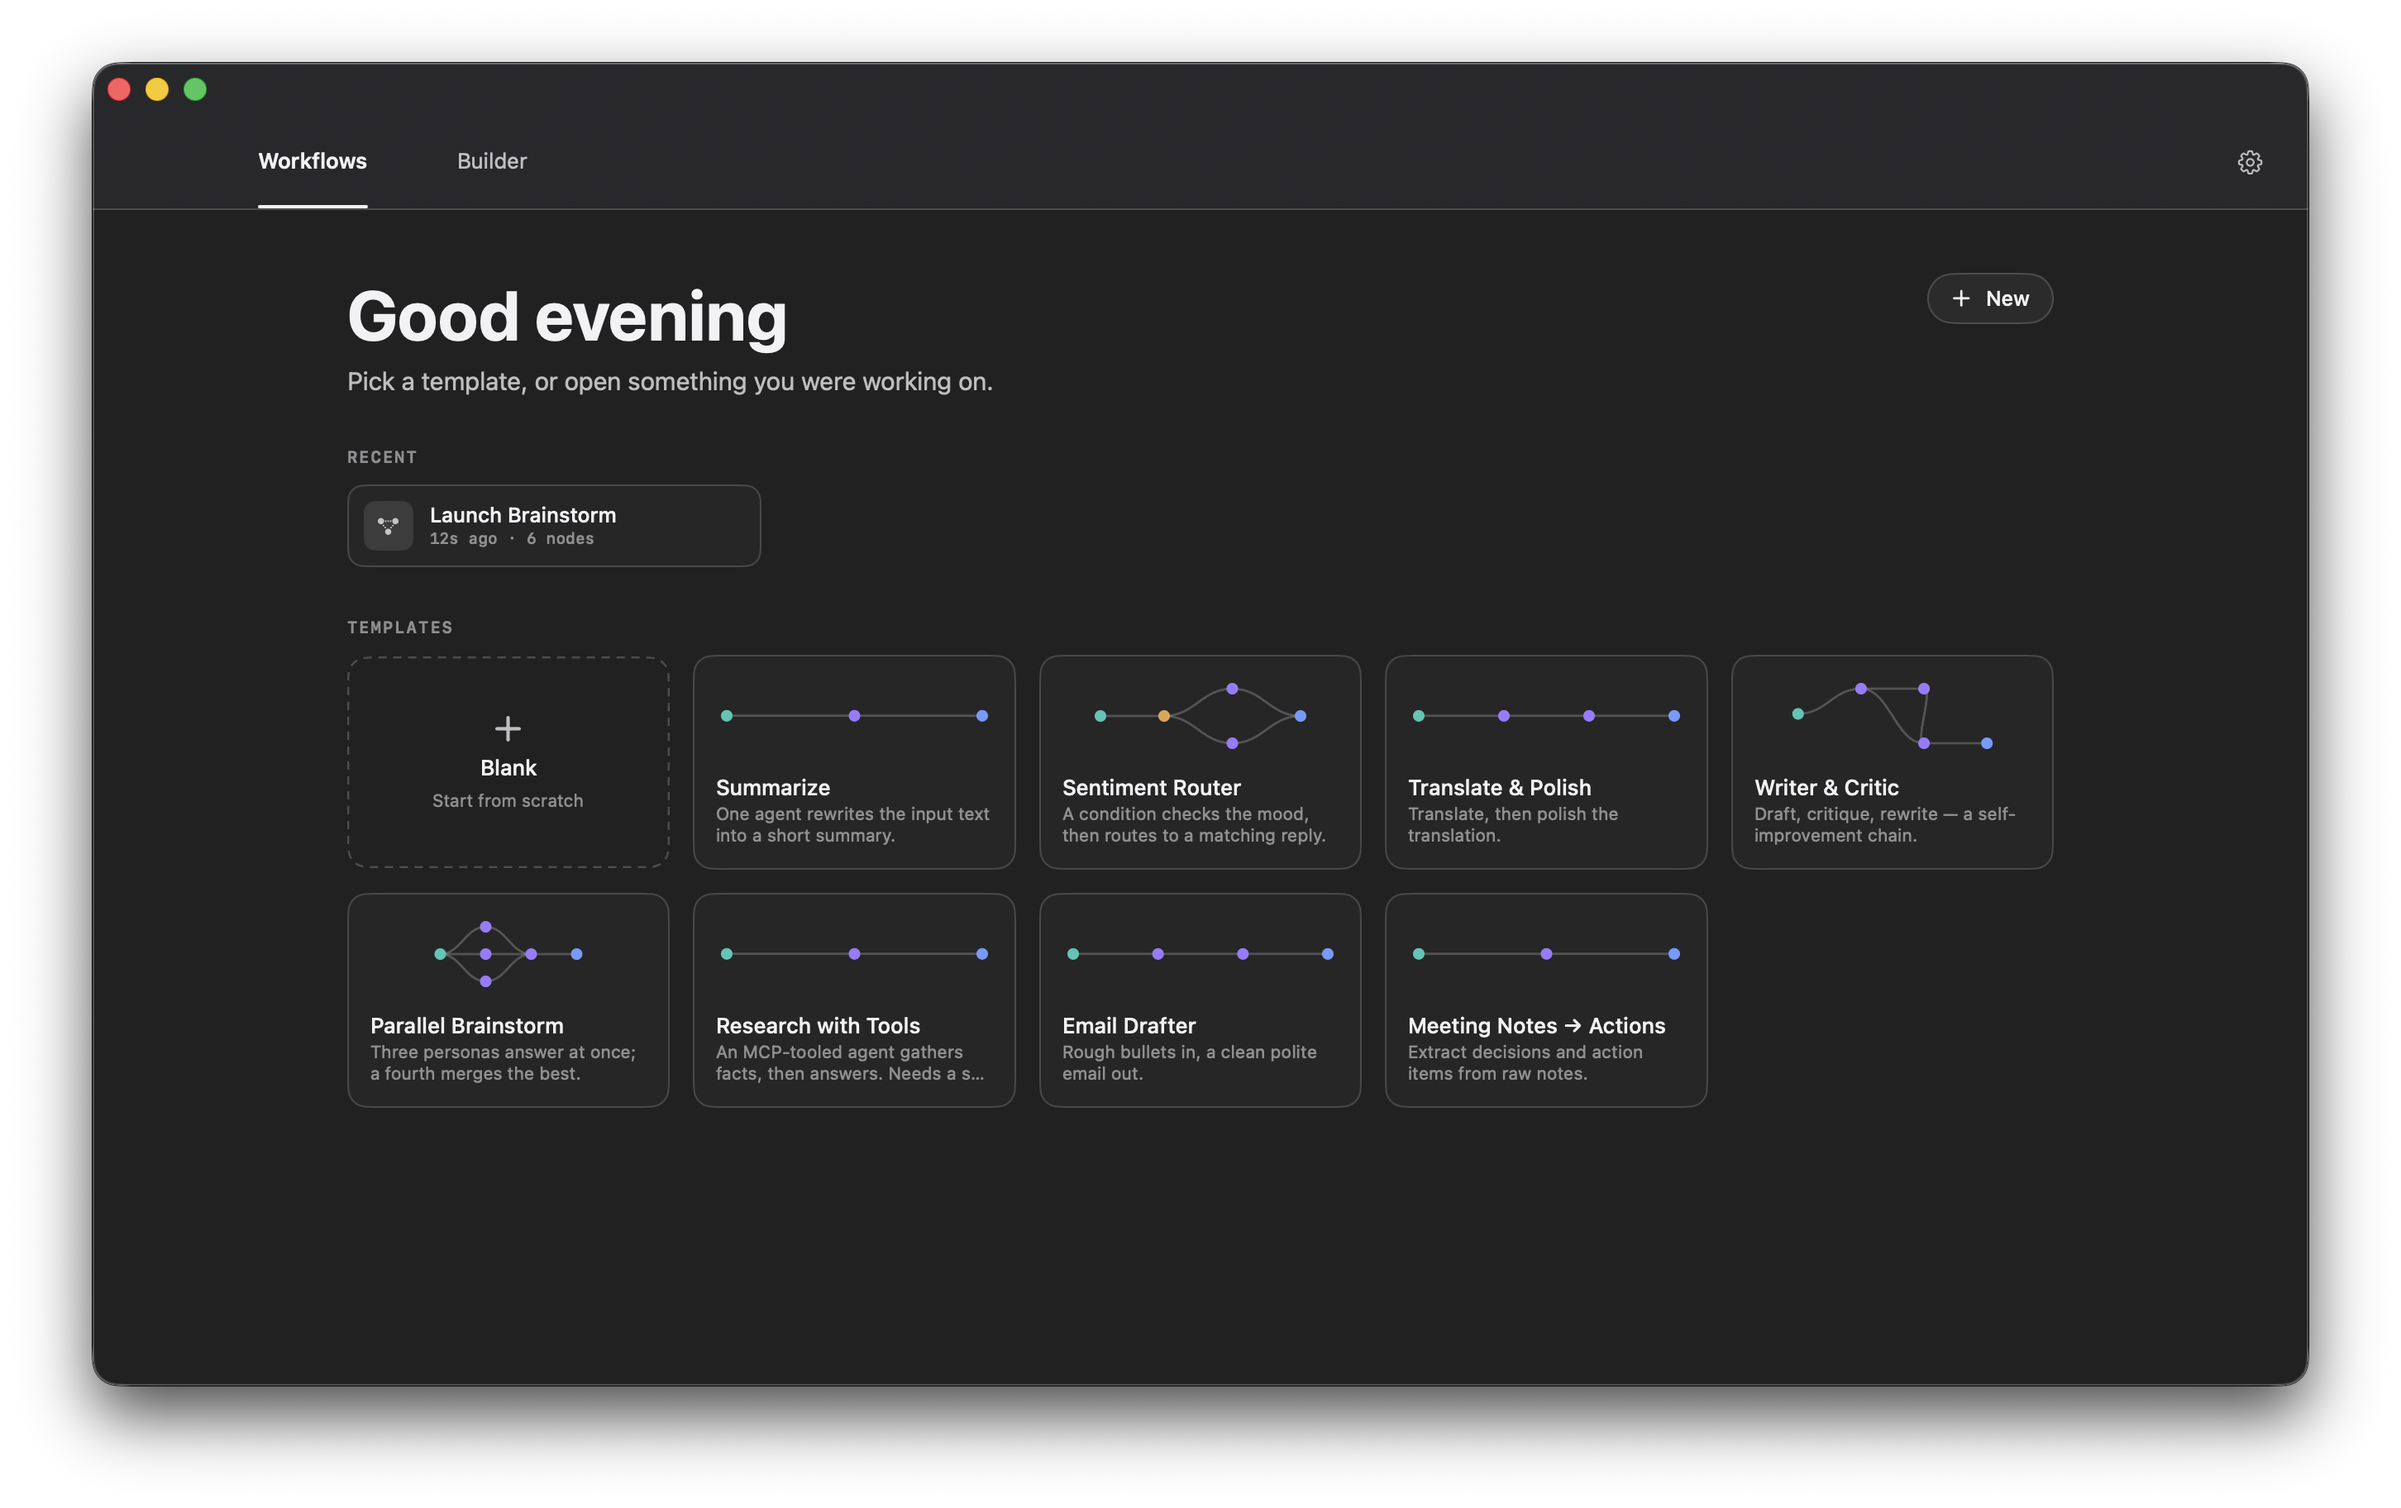
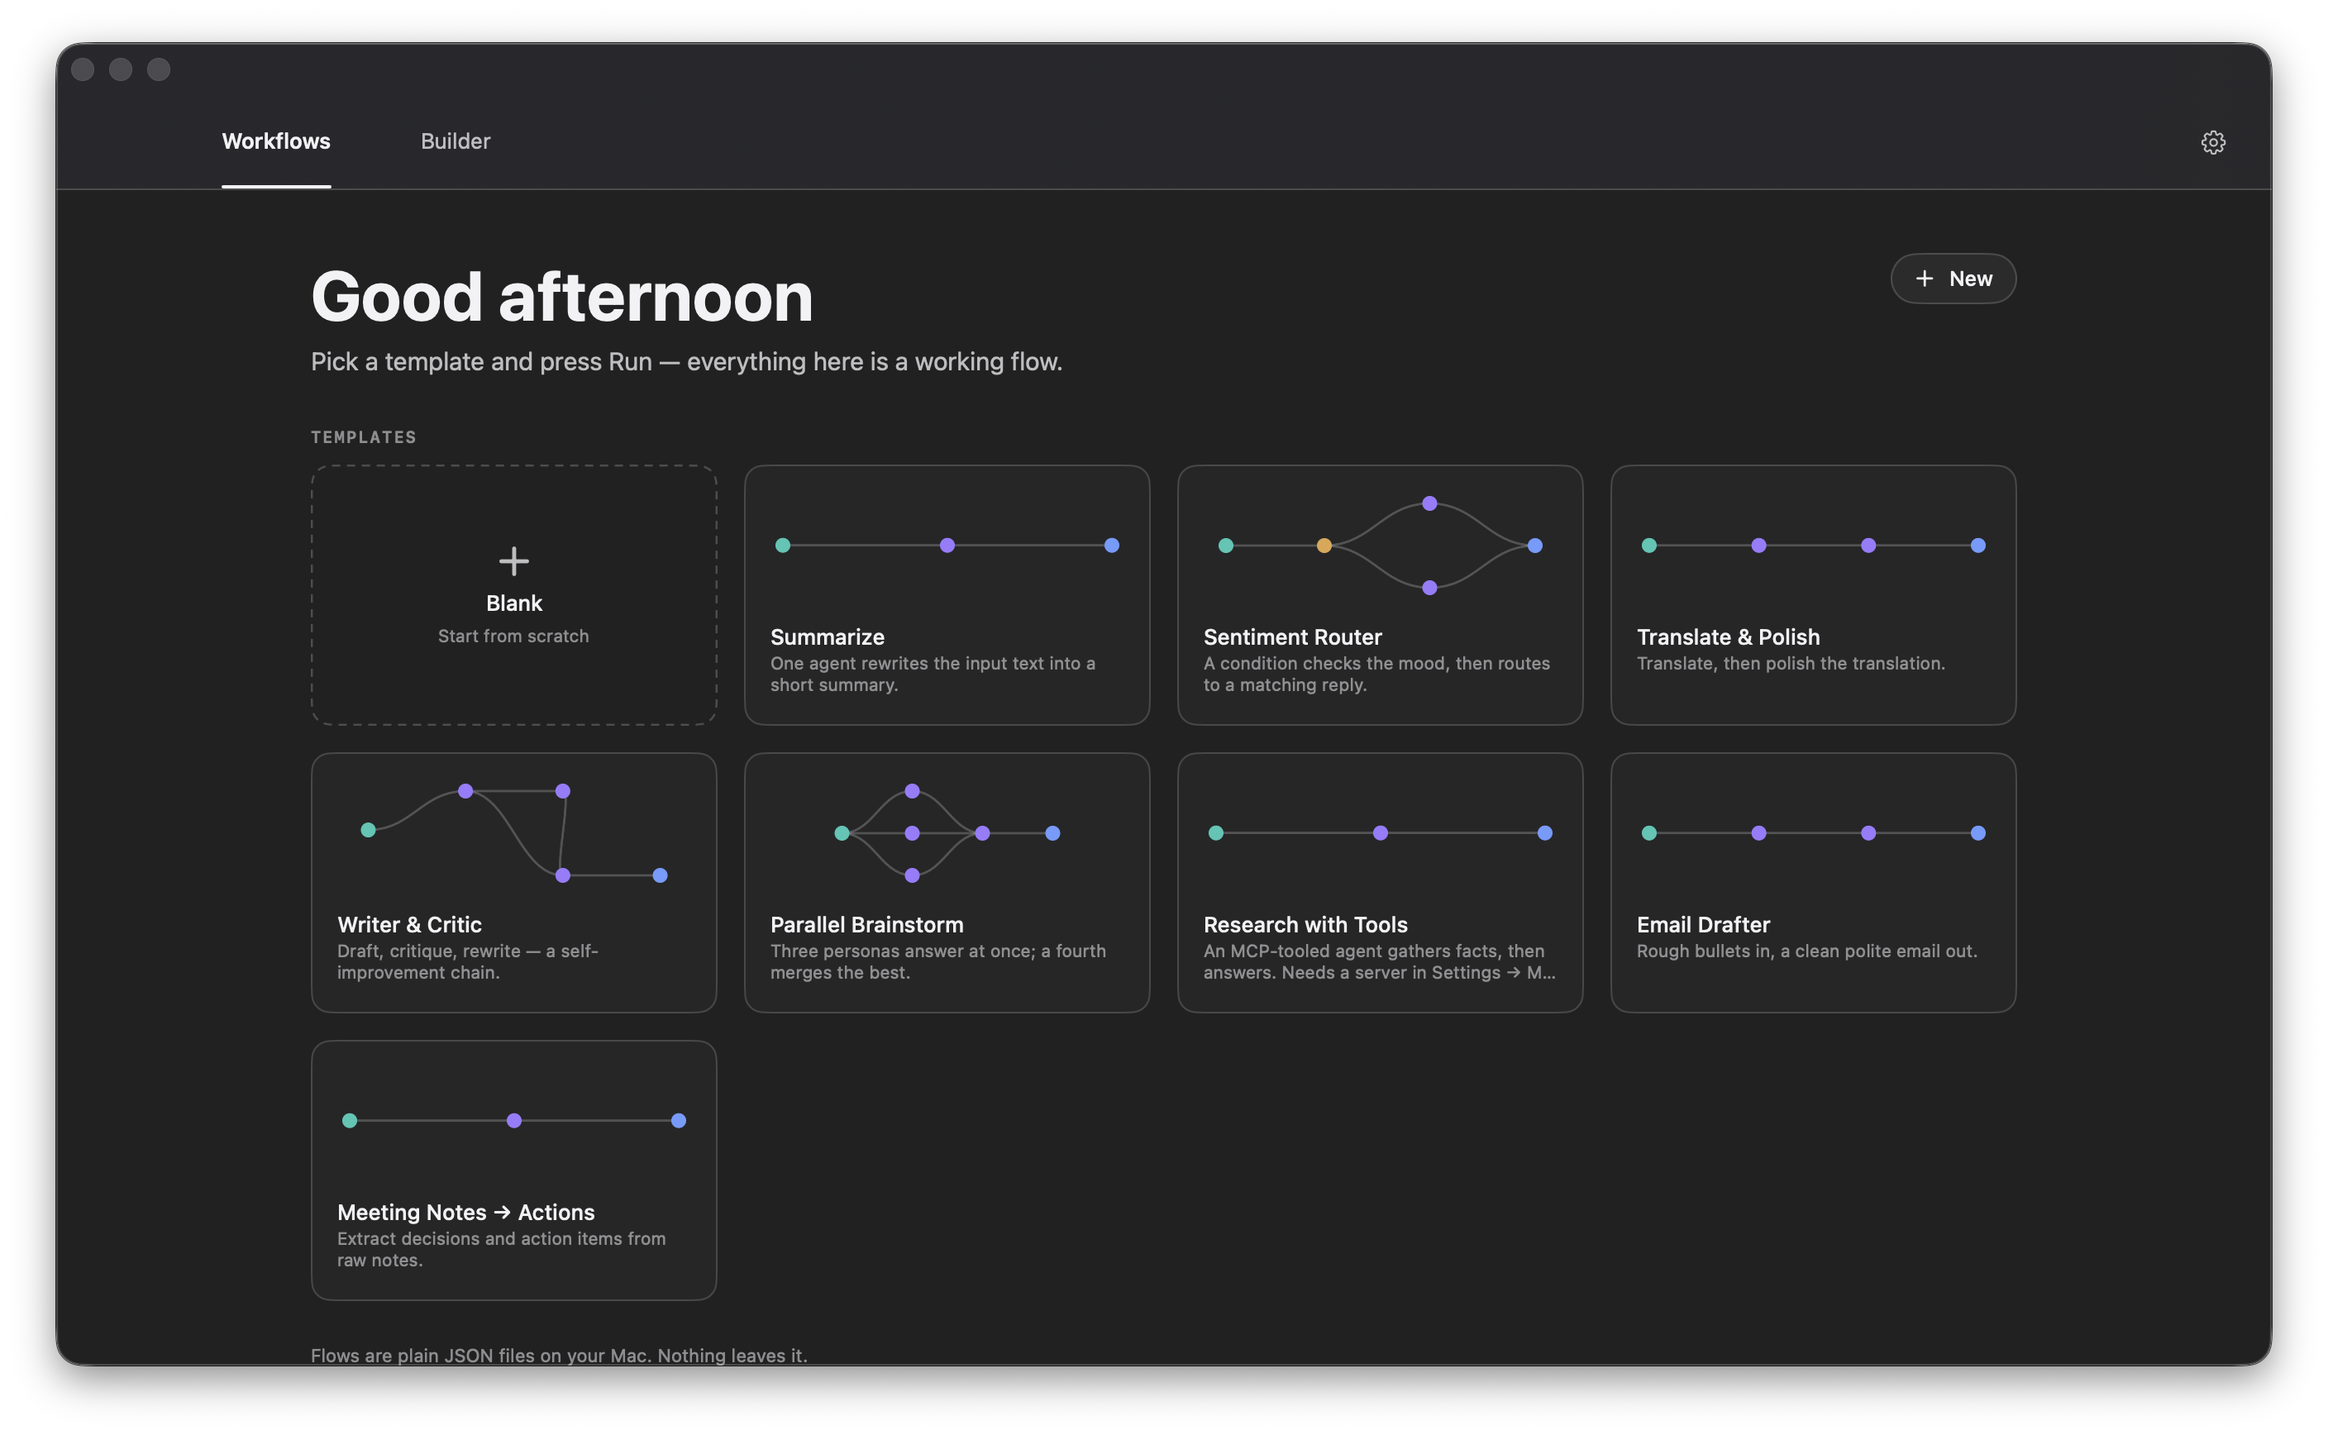
Home: fewer, larger template cards that fill the window
Nine 190pt tiles left the bottom half of the window empty. Four wider
columns with taller thumbnails, the shelf centred when it's shorter than
the window, and a closing line about where flows actually live.

diff --git a/Sources/OslerApp/Home/HomeView.swift b/Sources/OslerApp/Home/HomeView.swift
@@ -13,59 +13,75 @@ struct HomeView: View {
     @State private var recents: [RecentFlows.Entry] = []
     @State private var userTemplates: [UserTemplates.Entry] = []
 
-    private let columns = [GridItem(.adaptive(minimum: 190), spacing: 14)]
+    // Fewer, larger cards: the thumbnails are the point, and a wall of small
+    // tiles left half the window empty underneath.
+    private let columns = [GridItem(.adaptive(minimum: 240), spacing: 16)]
 
     var body: some View {
         ZStack {
             Theme.surfaceContainer
-            ScrollView {
-                VStack(alignment: .leading, spacing: 0) {
-                    header
-                        .padding(.bottom, 30)
-
-                    if !recents.isEmpty {
-                        sectionLabel("RECENT")
-                        LazyVGrid(columns: [GridItem(.adaptive(minimum: 210), spacing: 10)],
-                                  spacing: 10) {
-                            ForEach(recents) { entry in
-                                RecentCard(entry: entry) { open(entry) }
-                            }
-                        }
-                        .padding(.bottom, 30)
-                    }
-
-                    sectionLabel("TEMPLATES")
-                    LazyVGrid(columns: columns, spacing: 14) {
-                        BlankCard { newFlow() }
-                        ForEach(StarterTemplates.all) { template in
-                            let graph = template.make(settings.templateContext)
-                            TemplateCard(name: template.name,
-                                         summary: template.summary,
-                                         graph: graph) {
-                                open(graph)
-                            }
-                        }
-                    }
-
-                    if !userTemplates.isEmpty {
-                        sectionLabel("MY TEMPLATES")
-                            .padding(.top, 30)
-                        LazyVGrid(columns: columns, spacing: 14) {
-                            ForEach(userTemplates) { entry in
-                                SavedTemplateCard(entry: entry) { open(saved: entry) }
-                            }
-                        }
-                    }
+            GeometryReader { geo in
+                ScrollView {
+                    content
+                        .padding(.horizontal, 44)
+                        .padding(.vertical, 38)
+                        .frame(maxWidth: 1120)
+                        // Centred when the shelf is shorter than the window, so
+                        // the leftover space sits around it rather than under it.
+                        .frame(maxWidth: .infinity, minHeight: geo.size.height,
+                               alignment: .center)
                 }
-                .padding(.horizontal, 44)
-                .padding(.vertical, 38)
-                .frame(maxWidth: 1120)
-                .frame(maxWidth: .infinity)
             }
         }
         .task { await reload() }
         .onReceive(NotificationCenter.default.publisher(for: UserTemplates.changed)) { _ in
             userTemplates = UserTemplates.all()
+        }
+    }
+
+    private var content: some View {
+        VStack(alignment: .leading, spacing: 0) {
+            header
+                .padding(.bottom, 30)
+
+            if !recents.isEmpty {
+                sectionLabel("RECENT")
+                LazyVGrid(columns: [GridItem(.adaptive(minimum: 210), spacing: 10)],
+                          spacing: 10) {
+                    ForEach(recents) { entry in
+                        RecentCard(entry: entry) { open(entry) }
+                    }
+                }
+                .padding(.bottom, 30)
+            }
+
+            sectionLabel("TEMPLATES")
+            LazyVGrid(columns: columns, spacing: 16) {
+                BlankCard { newFlow() }
+                ForEach(StarterTemplates.all) { template in
+                    let graph = template.make(settings.templateContext)
+                    TemplateCard(name: template.name,
+                                 summary: template.summary,
+                                 graph: graph) {
+                        open(graph)
+                    }
+                }
+            }
+
+            if !userTemplates.isEmpty {
+                sectionLabel("MY TEMPLATES")
+                    .padding(.top, 30)
+                LazyVGrid(columns: columns, spacing: 16) {
+                    ForEach(userTemplates) { entry in
+                        SavedTemplateCard(entry: entry) { open(saved: entry) }
+                    }
+                }
+            }
+
+            Text("Flows are plain JSON files on your Mac. Nothing leaves it.")
+                .font(.oslerBody(11))
+                .foregroundStyle(Theme.textFaint)
+                .padding(.top, 26)
         }
     }
 
@@ -203,9 +219,9 @@ private struct TemplateCard: View {
     var body: some View {
         Button(action: open) {
             VStack(alignment: .leading, spacing: 0) {
-                FlowThumbnail(graph: graph)
-                    .frame(height: 46)
-                    .padding(.bottom, 12)
+                FlowThumbnail(graph: graph, dotRadius: 4.5)
+                    .frame(height: 66)
+                    .padding(.bottom, 14)
                 Text(name)
                     .font(.oslerBody(13, weight: .medium))
                     .foregroundStyle(Theme.textPrimary)
@@ -218,8 +234,8 @@ private struct TemplateCard: View {
                     .padding(.top, 2)
             }
             .frame(maxWidth: .infinity, alignment: .leading)
-            .padding(14)
-            .frame(minHeight: 128, alignment: .top)
+            .padding(16)
+            .frame(minHeight: 158, alignment: .top)
             .modifier(CardChrome(hovering: hovering))
         }
         .buttonStyle(.plain)
@@ -237,7 +253,7 @@ private struct BlankCard: View {
         Button(action: create) {
             VStack(spacing: 6) {
                 Image(systemName: "plus")
-                    .font(.system(size: 19, weight: .medium))
+                    .font(.system(size: 22, weight: .medium))
                     .foregroundStyle(Theme.textSecondary)
                 Text("Blank")
                     .font(.oslerBody(13, weight: .medium))
@@ -247,8 +263,8 @@ private struct BlankCard: View {
                     .foregroundStyle(Theme.textFaint)
             }
             .frame(maxWidth: .infinity)
-            .padding(14)
-            .frame(minHeight: 128)
+            .padding(16)
+            .frame(minHeight: 158)
             .background(RoundedRectangle(cornerRadius: 12, style: .continuous)
                 .fill(Theme.hoverFill)
                 .opacity(hovering ? 1 : 0))
